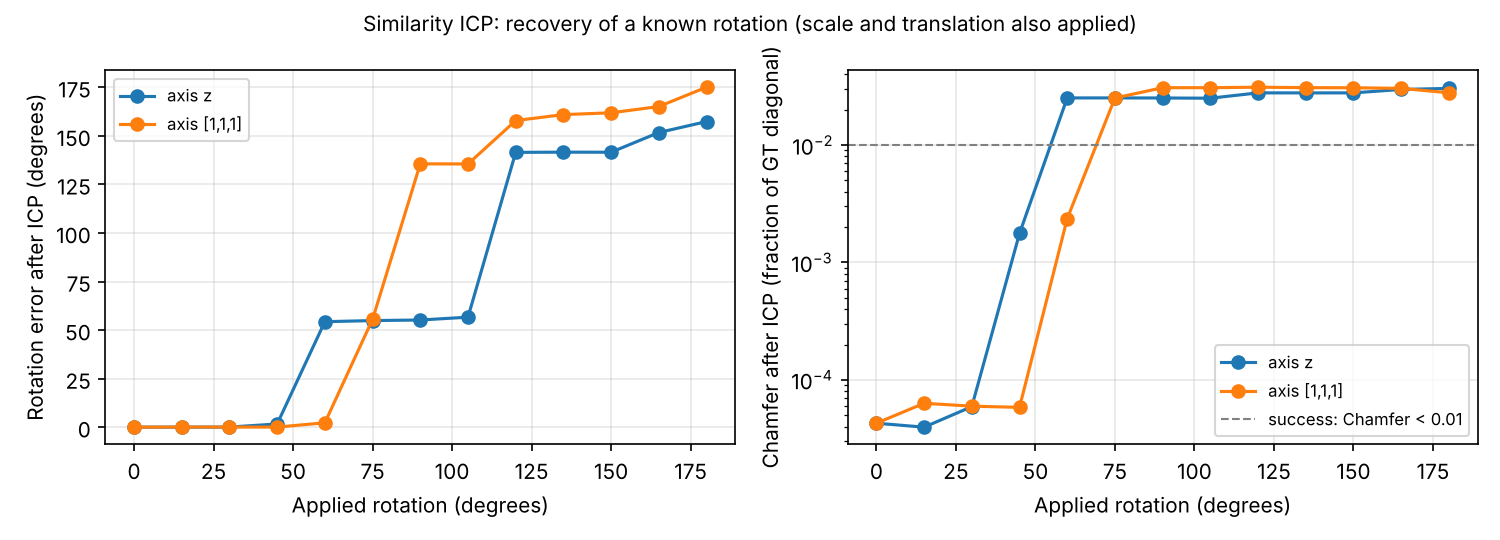
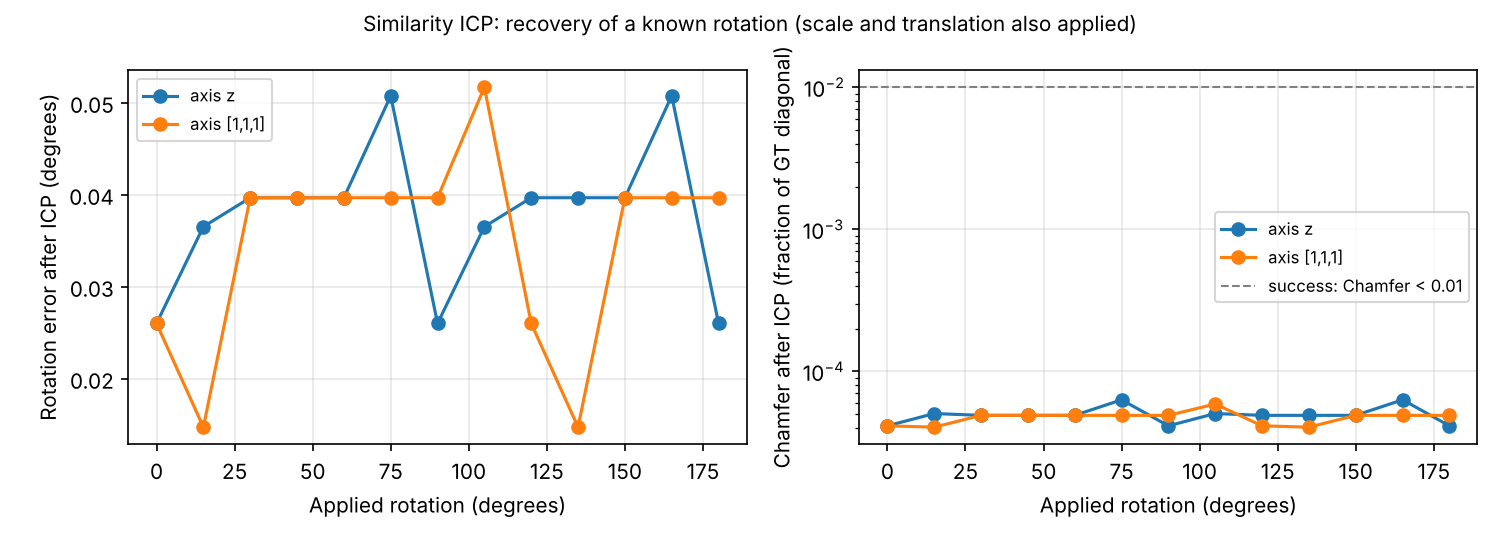
Start the similarity ICP from the best of 28 orientations
- common/alignment.py: axis_rotations (24 axis permutations),
  principal_axis_rotations (4 PCA alignments) and initial_similarity (RMS
  radius scale, independent of orientation); similarity_icp_align runs a
  short coarse ICP from each start on 5 000 samples, keeps the best by
  symmetric mean nearest-neighbour distance and refines it as before.
  initial_similarity_from_bboxes is replaced.
- ICP sweep (0-180 deg, axes z and [1,1,1], scale 1.3): 26/26 recovered
  (was 9/26); max rotation error 0.05 deg (was 175), max scale error
  0.008 % (was 10 %), max post-alignment Chamfer 6.3e-5 (was 3.1e-2).
- Tests: large rotations (90-180 deg) on a shape without rotational
  symmetry (the previous plain box was symmetric under 180-degree turns),
  axis rotations, principal axes and initialization.
- ADR 0005; ICP results, README, docs index and implementation updated.

Sample-pair metrics are identical (ICP not triggered there).

Claude-Session: https://claude.ai/code/session_01N5Vc99oeFZWLQANbgmsFEa
AI-Agent: Claude Code 2.1.310; model: unknown

diff --git a/src/meshcomparison/common/alignment.py b/src/meshcomparison/common/alignment.py
@@ -1,6 +1,8 @@
+import itertools
+
 import numpy as np
 
-from .distances import maybe_subsample
+from .distances import maybe_subsample, nn_distances
 
 
 def to_o3d_pcd(points):
@@ -11,47 +13,93 @@ def to_o3d_pcd(points):
     return pcd
 
 
-def initial_similarity_from_bboxes(src_pts, tgt_pts):
+def axis_rotations():
+    """The 24 rotations that map the coordinate axes onto each other (signed permutation matrices, det = +1).
+    Any orientation lies within about 63 degrees of one of them, and axis-convention changes (y-up vs z-up, flips)
+    are among them exactly."""
+    rotations = []
+    for perm in itertools.permutations(range(3)):
+        for signs in itertools.product((1.0, -1.0), repeat=3):
+            matrix = np.zeros((3, 3))
+            matrix[np.arange(3), perm] = signs
+            if np.linalg.det(matrix) > 0:
+                rotations.append(matrix)
+    return rotations
+
+
+def principal_axis_rotations(src_pts, tgt_pts):
+    """The 4 proper rotations that map the principal axes of ``src`` onto those of ``tgt`` (one per sign choice
+    with det = +1). Principal axes rotate with the object, so for a rotated copy one of them is the rotation."""
+    def axes(points):
+        _, vectors = np.linalg.eigh(np.cov((points - points.mean(axis=0)).T))
+        return vectors[:, ::-1]  # largest variance first
+
+    src_axes, tgt_axes = axes(src_pts), axes(tgt_pts)
+    rotations = []
+    for signs in itertools.product((1.0, -1.0), repeat=3):
+        rotation = tgt_axes @ np.diag(signs) @ src_axes.T
+        if np.linalg.det(rotation) > 0:
+            rotations.append(rotation)
+    return rotations
+
+
+def initial_similarity(src_pts, tgt_pts, rotation=np.eye(3)):
+    """Similarity that rotates ``src`` about its centroid, scales it to the RMS radius of ``tgt`` (a scale estimate
+    that does not depend on the orientation) and moves its centroid onto the centroid of ``tgt``."""
     src_center = src_pts.mean(axis=0)
     tgt_center = tgt_pts.mean(axis=0)
-
-    src_diag = np.linalg.norm(src_pts.max(axis=0) - src_pts.min(axis=0)) + 1e-12
-    tgt_diag = np.linalg.norm(tgt_pts.max(axis=0) - tgt_pts.min(axis=0)) + 1e-12
-    s = tgt_diag / src_diag
+    src_radius = np.sqrt(np.mean(np.sum((src_pts - src_center) ** 2, axis=1))) + 1e-12
+    tgt_radius = np.sqrt(np.mean(np.sum((tgt_pts - tgt_center) ** 2, axis=1))) + 1e-12
+    s = tgt_radius / src_radius
 
     T = np.eye(4, dtype=np.float64)
-    T[:3, :3] = np.eye(3) * s
-    T[:3, 3] = tgt_center - s * src_center
+    T[:3, :3] = s * rotation
+    T[:3, 3] = tgt_center - s * rotation @ src_center
     return T
+
+
+def _symmetric_mean_distance(src_pts, tgt_pts, transform):
+    moved = src_pts @ transform[:3, :3].T + transform[:3, 3]
+    d_src, _ = nn_distances(moved, tgt_pts)
+    d_tgt, _ = nn_distances(tgt_pts, moved)
+    return 0.5 * (np.mean(d_src) + np.mean(d_tgt))
 
 
 def similarity_icp_align(rm_points, gt_points,
                          coarse_dist=0.25,
                          fine_dist=0.05,
                          max_points=50000,
-                         max_iter=100):
+                         max_iter=100,
+                         select_points=5000,
+                         select_iter=30):
     """
-    Similarity ICP: rotation + translation + uniform scale.
+    Similarity ICP (rotation + translation + uniform scale) with a global start. A short coarse ICP
+    (``select_iter`` iterations on ``select_points`` samples) is run from 28 starts: the 24 axis rotations and the
+    4 principal-axis rotations. The start whose result has the smallest symmetric mean nearest-neighbour distance is
+    kept, and the coarse and fine ICP are then run from it on ``max_points`` samples.
     """
     import open3d as o3d
 
+    est = o3d.pipelines.registration.TransformationEstimationPointToPoint(with_scaling=True)
+    criteria = o3d.pipelines.registration.ICPConvergenceCriteria(max_iteration=max_iter)
+    select_criteria = o3d.pipelines.registration.ICPConvergenceCriteria(max_iteration=select_iter)
+
+    rm_sel = maybe_subsample(rm_points, max_points=select_points, seed=3)
+    gt_sel = maybe_subsample(gt_points, max_points=select_points, seed=4)
+    src_sel, tgt_sel = to_o3d_pcd(rm_sel), to_o3d_pcd(gt_sel)
+    best_start, best_score = None, np.inf
+    for rotation in axis_rotations() + principal_axis_rotations(rm_sel, gt_sel):
+        start = initial_similarity(rm_sel, gt_sel, rotation)
+        coarse = o3d.pipelines.registration.registration_icp(src_sel, tgt_sel, coarse_dist, start, est,
+                                                             select_criteria)
+        score = _symmetric_mean_distance(rm_sel, gt_sel, coarse.transformation)
+        if score < best_score:
+            best_start, best_score = coarse.transformation, score
+
     rm_pts = maybe_subsample(rm_points, max_points=max_points, seed=1)
     gt_pts = maybe_subsample(gt_points, max_points=max_points, seed=2)
-
-    src = to_o3d_pcd(rm_pts)
-    tgt = to_o3d_pcd(gt_pts)
-
-    init_T = initial_similarity_from_bboxes(rm_pts, gt_pts)
-    est = o3d.pipelines.registration.TransformationEstimationPointToPoint(with_scaling=True)
-
-    coarse = o3d.pipelines.registration.registration_icp(
-        src, tgt, coarse_dist, init_T, est,
-        o3d.pipelines.registration.ICPConvergenceCriteria(max_iteration=max_iter)
-    )
-
-    fine = o3d.pipelines.registration.registration_icp(
-        src, tgt, fine_dist, coarse.transformation, est,
-        o3d.pipelines.registration.ICPConvergenceCriteria(max_iteration=max_iter)
-    )
+    src, tgt = to_o3d_pcd(rm_pts), to_o3d_pcd(gt_pts)
+    coarse = o3d.pipelines.registration.registration_icp(src, tgt, coarse_dist, best_start, est, criteria)
+    fine = o3d.pipelines.registration.registration_icp(src, tgt, fine_dist, coarse.transformation, est, criteria)
 
     return fine.transformation, fine.fitness, fine.inlier_rmse

diff --git a/tests/test_common.py b/tests/test_common.py
@@ -2,7 +2,7 @@ import numpy as np
 import pytest
 import trimesh
 
-from meshcomparison.common.alignment import initial_similarity_from_bboxes
+from meshcomparison.common.alignment import axis_rotations, initial_similarity, principal_axis_rotations
 from meshcomparison.common.distances import maybe_subsample, surface_distances, symmetric_surface_mse
 from meshcomparison.common.sampling import sample_surface
 from meshcomparison.common.transforms import apply_transform_points
@@ -44,9 +44,23 @@ def test_maybe_subsample_limits_size(cloud):
     assert maybe_subsample(cloud, max_points=1000) is cloud
 
 
-def test_bbox_similarity_aligns_scaled_shifted_cloud(cloud):
-    moved = cloud * 2.0 + np.array([1.0, -2.0, 3.0])
-    T = initial_similarity_from_bboxes(moved, cloud)
-    back = apply_transform_points(moved, T)
-    assert np.allclose(back.min(axis=0), cloud.min(axis=0), atol=1e-6)
-    assert np.allclose(back.max(axis=0), cloud.max(axis=0), atol=1e-6)
+def test_axis_rotations_are_the_24_distinct_proper_rotations():
+    rotations = axis_rotations()
+    assert len(rotations) == 24
+    assert all(np.allclose(r @ r.T, np.eye(3)) and np.isclose(np.linalg.det(r), 1.0) for r in rotations)
+    assert len({tuple(r.ravel()) for r in rotations}) == 24
+
+
+def test_initial_similarity_undoes_a_known_rotation_scale_and_shift(cloud):
+    rotation = trimesh.transformations.rotation_matrix(1.0, [1, 2, 3])[:3, :3]
+    moved = 2.0 * cloud @ rotation.T + np.array([1.0, -2.0, 3.0])
+    T = initial_similarity(moved, cloud, rotation.T)
+    assert np.allclose(apply_transform_points(moved, T), cloud, atol=1e-9)
+
+
+def test_principal_axes_give_the_rotation_of_an_anisotropic_cloud():
+    points = np.random.default_rng(0).normal(size=(2000, 3)) * np.array([3.0, 2.0, 1.0])
+    rotation = trimesh.transformations.rotation_matrix(2.0, [1, -1, 0.5])[:3, :3]
+    moved = points @ rotation.T
+    errors = [np.linalg.norm(r - rotation.T) for r in principal_axis_rotations(moved, points)]
+    assert min(errors) < 1e-6

diff --git a/tests/test_icp.py b/tests/test_icp.py
@@ -13,10 +13,13 @@ SAMPLES = Path(__file__).resolve().parents[1] / "data" / "samples"
 
 @pytest.fixture(scope="module")
 def asymmetric_box():
-    # unequal extents and an offset from the origin: no symmetry that would make the rotation ambiguous
-    box = normalized(trimesh.creation.box(extents=(1.0, 0.6, 0.3)))
-    box.apply_translation([0.1, 0.05, 0.0])
-    return box
+    # a box with a smaller box on one corner: no rotational symmetry, so the recovered rotation is unique
+    # (a plain box with unequal extents is still symmetric under 180-degree turns about its axes)
+    corner = trimesh.creation.box(extents=(0.3, 0.2, 0.2))
+    corner.apply_translation([0.5, 0.3, 0.15])
+    shape = normalized(trimesh.util.concatenate([trimesh.creation.box(extents=(1.0, 0.6, 0.3)), corner]))
+    shape.apply_translation([0.1, 0.05, 0.0])
+    return shape
 
 
 def test_icp_recovers_rotation_translation_and_scale(asymmetric_box):
@@ -27,6 +30,19 @@ def test_icp_recovers_rotation_translation_and_scale(asymmetric_box):
     assert abs(r["scale_error"]) < 0.01
     assert r["icp_scale"] == pytest.approx(1 / 1.3, rel=0.01)
     assert r["chamfer"] < 1e-3 and r["fscore_tau1pct"] > 0.99
+
+
+LARGE_ROTATIONS = [(90.0, (0, 0, 1)), (135.0, (0, 0, 1)), (180.0, (1, 1, 1)), (120.0, (1, -2, 0.5))]
+
+
+@pytest.mark.parametrize("angle, axis", LARGE_ROTATIONS)
+def test_icp_recovers_large_rotations_from_the_global_start(asymmetric_box, angle, axis):
+    # beyond the ~45 degree basin of a single ICP start: the axis and principal-axis starts must find the right one
+    applied = similarity_transform(angle, axis=axis, scale=0.7, translation=(0.0, 0.3, -0.1))
+    r = icp_recovery(asymmetric_box, applied, n_samples=20_000)
+    assert r["rotation_error_deg"] < 1.0
+    assert abs(r["scale_error"]) < 0.01
+    assert r["chamfer"] < 1e-3
 
 
 def test_icp_is_not_triggered_for_the_identity(asymmetric_box):

diff --git a/docs/results/icp/README.md b/docs/results/icp/README.md
@@ -1,23 +1,24 @@
 # Validação do alinhamento (ICP de similaridade)
 
-**Método.** A RM é construída aplicando à GT normalizada (`data/samples/gt.stl`) uma similaridade conhecida: rotação de 0° a 180° em passos de 15°, em torno do eixo z e do eixo oblíquo [1, 1, 1], com escala 1,3 e translação de 0,2 da diagonal. O alinhamento é o mesmo do pipeline: MSE ponto-superfície sobre 10⁵ amostras, limiar 10⁻⁴ e `similarity_icp_align` (inicialização por centroides e diagonais, ICP grosso e depois fino). O erro de rotação é o ângulo da matriz residual (ICP ∘ transformação aplicada), e o ideal é 0.
+**Método.** A RM é construída aplicando à GT normalizada (`data/samples/gt.stl`) uma similaridade conhecida: rotação de 0° a 180° em passos de 15°, em torno do eixo z e do eixo oblíquo [1, 1, 1], com escala 1,3 e translação de 0,2 da diagonal. O alinhamento é o mesmo do pipeline: MSE ponto-superfície sobre 10⁵ amostras, limiar 10⁻⁴ e `similarity_icp_align`. O erro de rotação é o ângulo da matriz residual (ICP ∘ transformação aplicada), e o ideal é 0.
 
 **Execução:** `python scripts/icp_study.py --gt data/samples/gt.stl --out <pasta>`. Dados em [icp_recovery.csv](icp_recovery.csv).
 
 ![Recuperação de rotações conhecidas](icp_recovery.png)
 
-| Rotação aplicada | Eixo z | Eixo [1, 1, 1] |
-| --- | --- | --- |
-| 0°–30° | recuperada (erro ≤ 0,05°, Chamfer ≤ 6 × 10⁻⁵) | recuperada (erro ≤ 0,06°) |
-| 45° | parcial (erro 1,7°, Chamfer 1,8 × 10⁻³) | recuperada (erro 0,05°) |
-| 60° | **falha** (erro 54°) | parcial (erro 2,3°) |
-| ≥ 75° | **falha** | **falha** |
+## Resultado
 
-Em todos os casos recuperados, a escala ficou com erro < 0,1 % e a translação com erro < 10⁻³ da diagonal.
+Com a inicialização global ([ADR 0005](../../adr/0005-icp-global-start.md)), **todas as 26 rotações foram recuperadas**:
 
-## Conclusões
+- **Rotação:** erro ≤ 0,05°.
+- **Escala:** erro ≤ 0,008 %.
+- **Translação:** erro ≤ 10⁻⁴ da diagonal.
+- **Métricas pós-alinhamento:** Chamfer ≤ 6,3 × 10⁻⁵ e F@1 % = 1.
 
-- O ICP é **local**: com esta GT, converge até cerca de 45°–60° de rotação inicial. Acima disso, cai num mínimo local.
-- **Falha difícil de perceber:** em uma falha, o Chamfer pós-alinhamento fica em 2,5–3,1 % da diagonal (F@1 % entre 0,28 e 0,37), valores que parecem uma reconstrução ruim, e não um erro de alinhamento.
-- **Implicação para o benchmark:** modelos de imagem única usam convenções de eixo diferentes (por exemplo, y para cima × z para cima, que é uma rotação de 90°). Antes de avaliar, coloque a saída de cada modelo no referencial da GT com uma rotação conhecida, ou adicione uma inicialização global (por exemplo, eixos principais ou várias rotações iniciais escolhendo o menor MSE). Inspecione sempre `icp_scale` e o heatmap.
-- **Cobertura de testes:** `tests/test_icp.py` verifica a recuperação de 15° com escala 1,3 e translação, a identidade sem ICP e o caminho completo do pipeline (10°, escala 0,8).
+**Antes**, com uma única partida, só 9 de 26 casos convergiam: até 30° no eixo z e 45° no eixo oblíquo. Nas falhas, o Chamfer pós-alinhamento ficava em 2,5–3,1 % da diagonal, valor que parece uma reconstrução ruim e não um erro de alinhamento.
+
+## Limites
+
+- **Uma forma:** o resultado vale para esta GT. Objetos com simetrias podem ser alinhados em orientações equivalentes, sem efeito nas métricas.
+- **Cópias exatas:** a varredura usa cópias transformadas. Com reconstruções reais, a partida escolhida é a de menor distância, que pode não ser a orientação "pretendida" pelo modelo. Inspecione `icp_scale` e o heatmap.
+- **Testes:** `tests/test_icp.py` verifica 15° (com escala e translação), 90°, 120°, 135° e 180° numa forma sem simetria, a identidade sem ICP e o caminho completo do pipeline.

diff --git a/docs/implementation/README.md b/docs/implementation/README.md
@@ -9,7 +9,7 @@ Os testes abaixo existem em `tests/` e rodam no CI. Eles verificam fórmulas, es
 | Métricas geométricas | [`test_metrics.py`](../../tests/test_metrics.py), [`test_common.py`](../../tests/test_common.py): distância ponto-superfície (face, aresta, vértice), ausência de piso para a mesma superfície, Chamfer independente de N, NC = cos θ, amostragem reprodutível e proporcional à área, deslocamentos conhecidos (CD = HD95 = δ, F-score em degrau), HD95 robusto a *outliers*, precisão/cobertura, regiões, escala do ICP, visibilidade de um cubo | Casos sintéticos |
 | Normal consistency, F(τ), robustez | [`test_robustness.py`](../../tests/test_robustness.py): NC = cos θ em planos inclinados, F(τ) monotônica, AUC em [0,1], invariância à permutação e à re-triangulação, perturbações monotônicas, remoção reduz a cobertura | Uma malha sintética por teste |
 | Gráficos e estimativas | [`test_plots.py`](../../tests/test_plots.py): intervalo bootstrap, dispersão de amostragem, escrita das figuras | Não confere o conteúdo visual |
-| Preparo e alinhamento | [`test_prepare.py`](../../tests/test_prepare.py), [`test_common.py`](../../tests/test_common.py), [`test_icp.py`](../../tests/test_icp.py): ICP abaixo/acima do limiar, recuperação de rotação, escala e translação conhecidas (unitário e pelo pipeline), exportação na escala da GT, MSE, subamostragem, inicialização por caixas | O ICP converge só até ~45°–60° ([estudo](../results/icp/README.md)) |
+| Preparo e alinhamento | [`test_prepare.py`](../../tests/test_prepare.py), [`test_common.py`](../../tests/test_common.py), [`test_icp.py`](../../tests/test_icp.py): ICP abaixo/acima do limiar, recuperação de rotações de até 180° com escala e translação (unitário e pelo pipeline), rotações dos eixos e eixos principais, exportação na escala da GT, MSE, subamostragem, inicialização (rotação, escala RMS, centroides) | Validado em cópias transformadas de uma GT ([estudo](../results/icp/README.md)) |
 | Percepção | [`test_perceptual.py`](../../tests/test_perceptual.py): PSNR com erro conhecido, máscara, `Inf`/`NaN`, crop, estatísticas finitas | Não executa LPIPS/SSIM multivista |
 | Heatmap e renderização | [`test_heatmap.py`](../../tests/test_heatmap.py), [`test_rendering.py`](../../tests/test_rendering.py): escala P95; renderer reutilizado igual a renders avulsos | `test_rendering` é ignorado sem OpenGL offscreen |
 | GUI (lógica) | [`test_gui_config.py`](../../tests/test_gui_config.py), [`test_worker.py`](../../tests/test_worker.py), [`test_outputs.py`](../../tests/test_outputs.py), [`test_gallery.py`](../../tests/test_gallery.py), [`test_device.py`](../../tests/test_device.py) | Não abre a janela; CUDA simulado |
@@ -22,5 +22,5 @@ Os testes abaixo existem em `tests/` e rodam no CI. Eles verificam fórmulas, es
 | Alta | Malhas do benchmark (TripoSR, Stable Fast 3D, InstantMesh): identidade, transformação e escala conhecidas, deformação, incompletude e densidade |
 | Alta | Estudo de robustez nas GTs do benchmark, com LPIPS |
 | Alta | Convenção de eixos e câmera de entrada de cada conjunto de dados; câmera ortográfica × perspectiva |
-| Alta | Rotações > 45° entre o referencial do modelo e o da GT: o ICP falha ([estudo](../results/icp/README.md)). Padronizar a convenção de eixos de cada modelo ou adicionar uma inicialização global |
+| Alta | Alinhamento de reconstruções reais (formas diferentes da GT, simetrias): conferir a orientação escolhida pela inicialização global |
 | Média | LPIPS em CUDA × CPU; teste manual ou automatizado da GUI |

diff --git a/README.md b/README.md
@@ -51,7 +51,7 @@ Mesh Comparison is a Python desktop application that evaluates a reconstructed m
 
 <img width="100%" src="docs/assets/how-the-code-works.svg" alt="Architecture of the geometric and perceptual evaluation pipelines">
 
-1. **Preparation** (shared by both pipelines): load GT and RM, scale both by the GT bounding-box diagonal, draw 100 000 area-uniform surface samples per mesh (seeds `0`/`1`) and run similarity ICP (rotation, translation, uniform scale) on them when the symmetric point-to-surface MSE exceeds `1e-4`.
+1. **Preparation** (shared by both pipelines): load GT and RM, scale both by the GT bounding-box diagonal, draw 100 000 area-uniform surface samples per mesh (seeds `0`/`1`) and, when the symmetric point-to-surface MSE exceeds `1e-4`, run similarity ICP (rotation, translation, uniform scale) on them from the best of 28 starting orientations.
 2. **Geometric pipeline:** surface metrics, optionally split into GT regions visible/hidden from the input view, plus orthographic renders and a GT heatmap of the distance to the aligned RM surface.
 3. **Perceptual pipeline:** GT and aligned RM rendered from the same orthographic cameras (100 azimuths); LPIPS, PSNR and SSIM per view on the crop around the union of both masks.
 
@@ -156,7 +156,7 @@ Checks invariance to re-triangulation and sensitivity to noise, local bumps and 
 - STL has no physical units; distances are in the GT's units.
 - Metrics are Monte Carlo estimates over surface samples. With point-to-surface distances they do not drift with the sample count; at 10⁵ samples the seed spread is about 1 % for Chamfer and HD95 and ≤ 0.1 % for the scores (sample pair).
 - The input view uses an orthographic camera and a z-up convention that must match the dataset.
-- ICP is local: on the sample GT it recovers rotations up to about 45°–60° (scale error < 0.1 %) and fails beyond, leaving a plausible-looking Chamfer of 2.5–3.1 % of the diagonal. Bring each model's output into the GT frame (axis convention) before evaluating ([ICP study](docs/results/icp/README.md)).
+- Alignment starts from 28 orientations (axis permutations and principal axes) and keeps the best fit ([ADR 0005](docs/adr/0005-icp-global-start.md)); on the sample GT it recovers any rotation, scale and translation ([ICP study](docs/results/icp/README.md)). For symmetric objects or reconstructions far from the GT, the best-fitting orientation may not be the intended one: check `icp_scale` and the heatmap.
 - Validation so far uses synthetic cases and one sample pair; benchmark meshes (TripoSR, Stable Fast 3D, InstantMesh) and GPU LPIPS are still to be validated ([validation plan](docs/implementation/README.md)).
 
 ## Development

diff --git a/docs/adr/0005-icp-global-start.md b/docs/adr/0005-icp-global-start.md
@@ -1,0 +1,35 @@
+# ADR 0005 — Inicialização global do ICP
+
+- **Estado:** aceito (26/10/2026). Altera só o alinhamento; as métricas e as saídas não mudam.
+
+## Contexto
+
+O [estudo do ICP](../results/icp/README.md) mostrou que o ICP de similaridade, iniciado só pelos centroides e pela razão das diagonais, converge apenas até cerca de 45°–60° de rotação. Acima disso, cai num mínimo local que deixa um Chamfer de 2,5–3,1 % da diagonal, valor que parece uma reconstrução ruim e não um erro de alinhamento. Modelos de imagem única usam convenções de eixo diferentes (por exemplo, y para cima × z para cima, uma rotação de 90°), então essa falha seria comum no benchmark.
+
+## Decisão
+
+`common/alignment.py:similarity_icp_align` passa a escolher o ponto de partida entre **28 candidatos**:
+
+- as 24 rotações que levam os eixos coordenados uns nos outros (cobrem exatamente as mudanças de convenção de eixos);
+- as 4 rotações que alinham os eixos principais (PCA) da RM aos da GT.
+
+Para cada candidato:
+
+- a escala inicial é a razão dos raios RMS em torno dos centroides, que não depende da orientação (antes, era a razão das diagonais das caixas, que muda com a rotação);
+- roda-se um ICP grosso curto (30 iterações, 5 000 amostras).
+
+Fica a partida com a menor distância média simétrica ao vizinho mais próximo. A partir dela, rodam o ICP grosso e o fino de antes (50 000 amostras, limiares 0,25 e 0,05, até 100 iterações). O gatilho (MSE ponto-superfície > 10⁻⁴) não muda.
+
+## Consequências
+
+| Varredura 0°–180°, eixos z e [1, 1, 1], escala 1,3 (26 casos) | Antes | Depois |
+| --- | ---: | ---: |
+| Casos recuperados (Chamfer < 1 % da diagonal) | 9 | 26 |
+| Erro máximo de rotação | 175° | 0,05° |
+| Erro máximo de escala | 10 % | 0,008 % |
+| Chamfer máximo pós-alinhamento | 3,1 × 10⁻² | 6,3 × 10⁻⁵ |
+
+- **Custo:** cerca de 2 s a mais por alinhamento, e só quando o ICP é acionado. No par de exemplo o ICP não é acionado, e as métricas são idênticas.
+- **Objetos simétricos:** podem ser alinhados em qualquer orientação equivalente. Isso não altera as métricas, mas o erro de rotação deixa de ser único.
+- **Formas diferentes:** com uma reconstrução muito distante da GT, a partida escolhida é a que **minimiza a distância**. Esse é o comportamento esperado para avaliação, mas pode esconder uma orientação errada do modelo; inspecione `icp_scale` e o heatmap.
+- **Testes:** `tests/test_icp.py` (rotações de 90°, 120°, 135° e 180° numa forma sem simetria) e `tests/test_common.py` (rotações dos eixos, PCA e inicialização).

diff --git a/docs/README.md b/docs/README.md
@@ -3,11 +3,11 @@
 | Documento | Conteúdo |
 | --- | --- |
 | [README principal](../README.md) | Visão geral, métricas, instalação, uso, saídas e limitações |
-| [ADRs](adr/) | Definição e justificativa das métricas: [0001](adr/0001-evaluation-v2.md) amostras de superfície, [0002](adr/0002-robustness-study.md) normal consistency, F(τ) e estudo de robustez, [0003](adr/0003-single-metric-standard.md) padrão único, [0004](adr/0004-point-to-surface.md) distâncias ponto-superfície |
+| [ADRs](adr/) | Definição e justificativa das métricas: [0001](adr/0001-evaluation-v2.md) amostras de superfície, [0002](adr/0002-robustness-study.md) normal consistency, F(τ) e estudo de robustez, [0003](adr/0003-single-metric-standard.md) padrão único, [0004](adr/0004-point-to-surface.md) distâncias ponto-superfície, [0005](adr/0005-icp-global-start.md) inicialização global do ICP |
 | [Implementação e validação](implementation/README.md) | Testes existentes e validação pendente |
 | [Resultados de exemplo](results/README.md) | Métricas e gráficos do par de exemplo |
 | [Estudo de robustez](results/robustness/README.md) | Invariância à triangulação e sensibilidade das métricas; roteiro do artigo |
-| [Validação do ICP](results/icp/README.md) | Recuperação de rotação, escala e translação conhecidas; raio de convergência |
+| [Validação do ICP](results/icp/README.md) | Recuperação de rotação, escala e translação conhecidas, antes e depois da inicialização global |
 | [Agent Harness](harness/README.md) | Desenvolvimento assistido por agentes: estado, fluxo e referências |
 | [Artigo e referências](https://github.com/lianeheidemann/mesh-comparison-article) | Repositório privado `mesh-comparison-article` |
 
